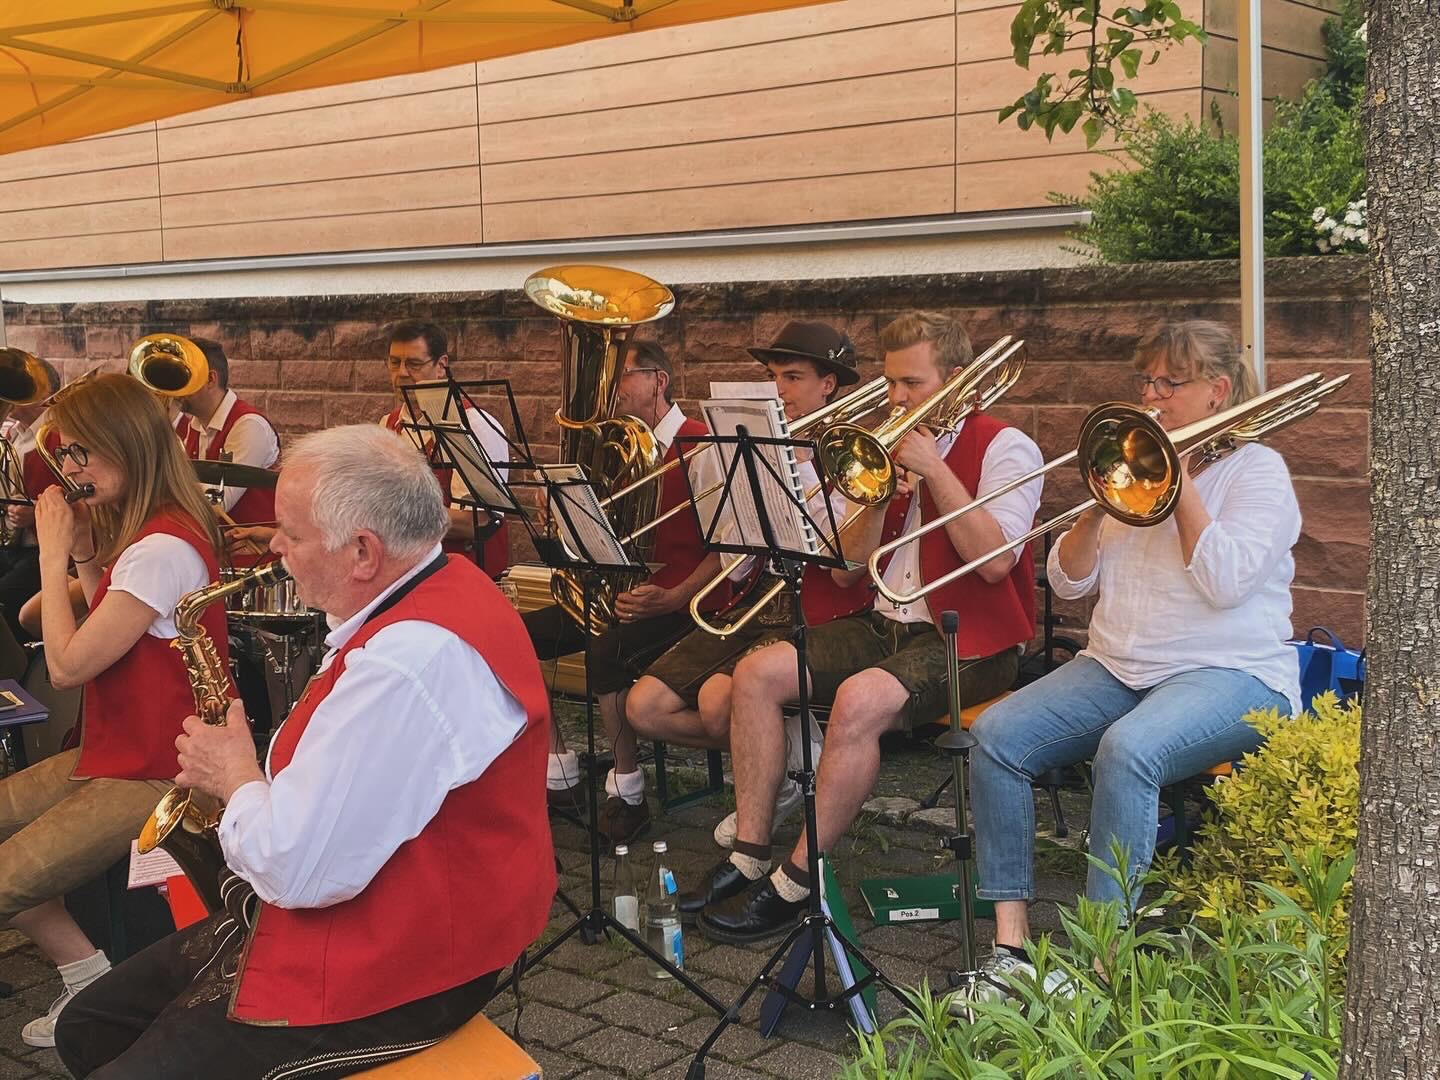
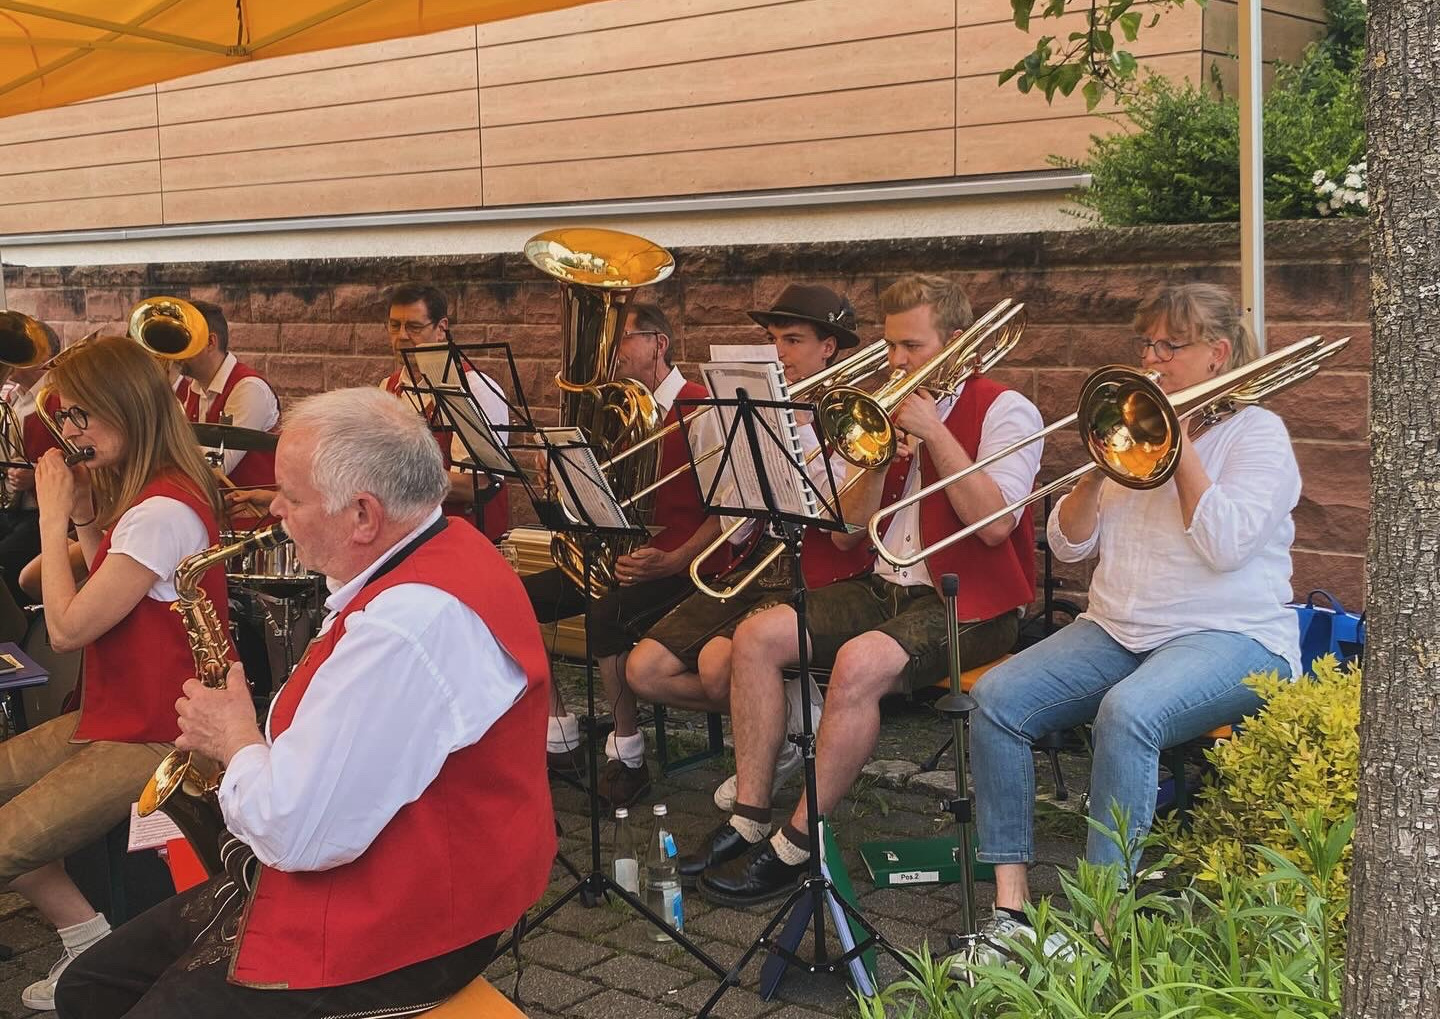
maibaum zeichnung

diff --git a/content/german/aktuelles/2024/erster_mai.md b/content/german/aktuelles/2024/erster_mai.md
@@ -5,6 +5,8 @@ draft: false
 resources:
     images:
     - name: "Image"
+      src: "/images/aktuelles/2024/2024_maibaum_zeichnung.png"
+    - name: "Image"
       src: "/images/aktuelles/2024/2024_maibaum.jpg"
 ---
 
